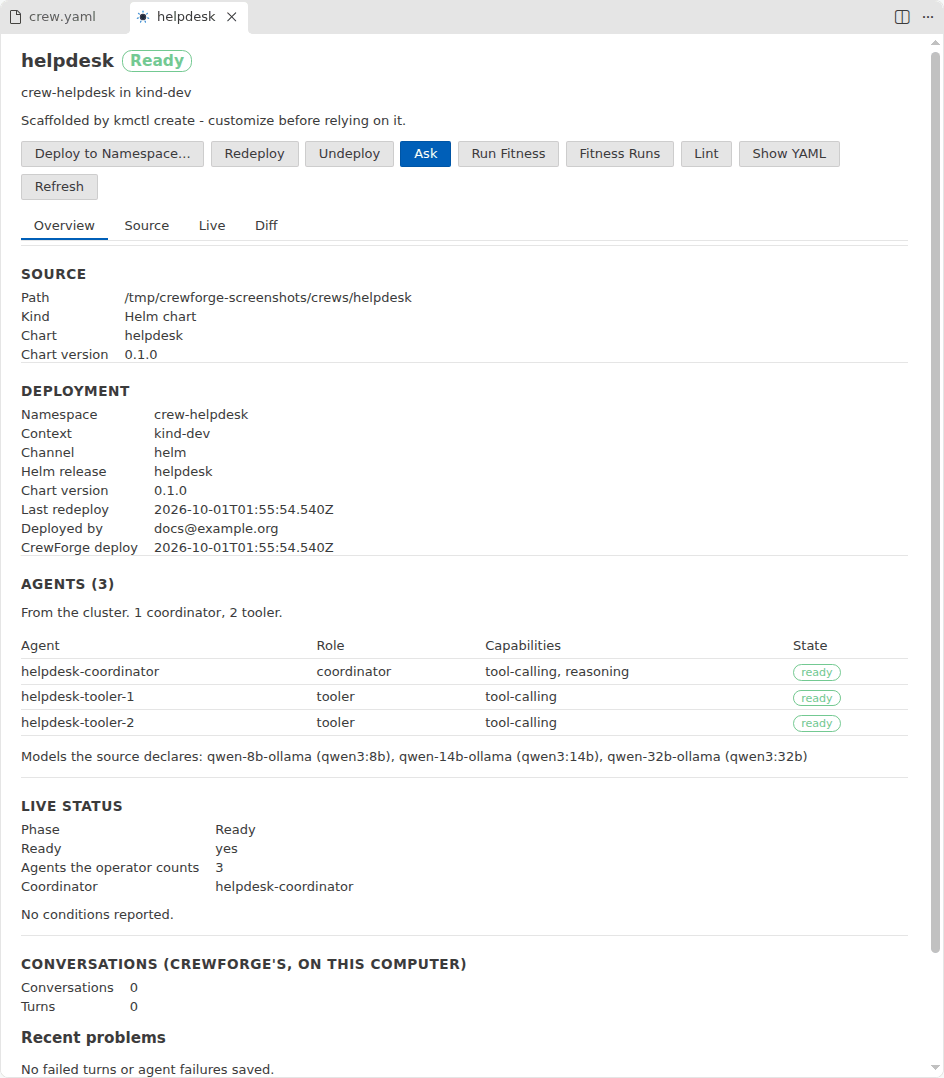
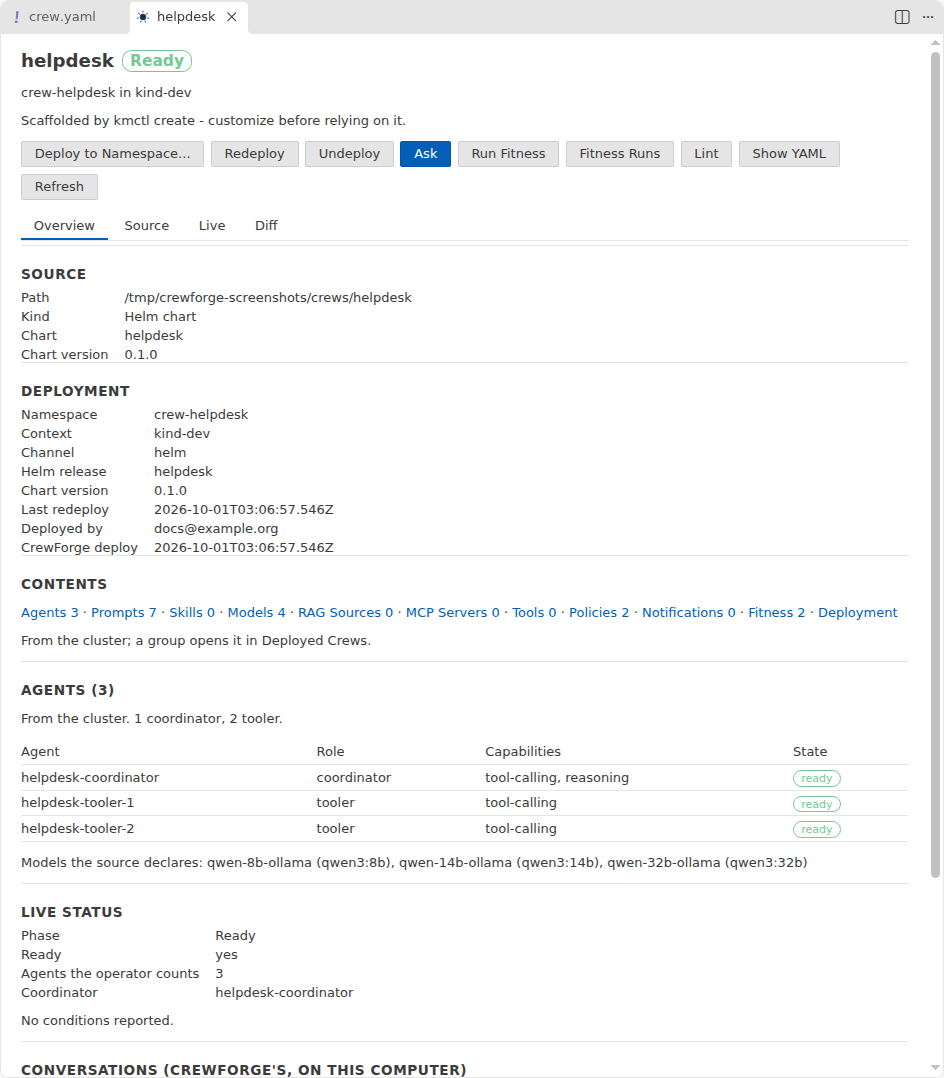
docs(crewforge): every part of a crew, Add <Kind>, and Remove from Source
The CrewForge pages describe the groups both trees show and the rule that
puts an object in each, shared objects, tool details from the gateway's
catalog, Add <Kind>... and Remove from Source... in Crew Sources, and the
Contents line of the crew dashboard. The views and crew overview
screenshots are regenerated.

diff --git a/content/en/docs/ecosystem/crewforge/views-and-dashboards.md b/content/en/docs/ecosystem/crewforge/views-and-dashboards.md
@@ -11,7 +11,8 @@ This page is the reference. For a guided tour, see
 
 CrewForge applies only Kubemoot custom resources and Helm releases of them. It never
 deletes a namespace or any other kind of object; the operator owns cleanup through
-finalizers and owner references. Anything that deletes files, such as **Delete Source...**,
+finalizers and owner references. **Add <Kind>...** and **Remove from Source...** change
+only files of a source. Anything that deletes files, such as **Delete Source...**,
 moves them to your trash. Actions that only read are marked "nothing" in the
 [action reference](#action-reference) below.
 
@@ -19,7 +20,7 @@ moves them to your trash. Actions that only read are marked "nothing" in the
 
 Click the Kubemoot mark in the activity bar. Two views share the side bar.
 
-![The Kubemoot view in VS Code's side bar. Deployed Crews lists the helpdesk crew expanded to its agents and prompt modules; Crew Sources lists the helpdesk chart, deployed in crew-helpdesk and in sync, expanded to what it declares.](../views.png)
+![The Kubemoot view in VS Code's side bar. Deployed Crews lists the helpdesk crew expanded to its groups, with Models open: three Models and the shared ollama ModelProvider. Crew Sources lists the helpdesk chart, deployed in crew-helpdesk and in sync, expanded to the same groups.](../views.png)
 
 ### Deployed Crews
 
@@ -30,17 +31,42 @@ A crew's line shows its phase, agent count, chart version, and whether its sourc
 in the workspace (*source open* or *no local source*). Hover for its namespace, labels,
 creation time, archetype, and status conditions.
 
-Expand a crew to see what it is made of, read from the cluster:
+Expand a crew to see every part of it, read from the cluster, in this order. A group with
+nothing in it says *none*; hover a group for the rule that puts an object in it.
 
-- **Agents**: each with its discussion role, the capabilities it asks the scheduler for
-  (never a model name), and whether it is ready.
-- **PromptModules**: in composition order, each marked ADL or prose, with the agents that
-  use it. A module an agent names that the cluster lacks shows as missing.
-- **Skills**, in order.
-- **MCP Servers** its agents or skills name, and the **Tools** its agents may call.
+- **Agents**: the Agents labeled `kubemoot.ai/crew` with the crew, each with its
+  discussion role, the capabilities it asks the scheduler for (never a model name), and
+  whether it is ready.
+- **Prompts**: the PromptModules the agents name in `promptRefs`, in composition order,
+  each marked ADL or prose, with the agents that use it. A module an agent names that the
+  cluster lacks shows as missing.
+- **Skills** labeled with the crew, in order.
+- **Models**: every Model in the crew's namespace, since the scheduler may bind the agents
+  to any of them by capability label, then the ModelProviders they run on (looked up in
+  the crew's namespace, then `kubemoot`). Hover a Model for its model name, capability
+  tier (its `latencyClass`), capability labels, and context length.
+- **RAG Sources** the agents or skills name, or were matched to by keyword, and the
+  crew's own, then the **EmbeddingModels** they embed with. Hover one for what it
+  indexes, its chunking, its embedding model, and when it was last indexed.
+- **MCP Servers** the agents or skills name, installed with the crew, or registered with
+  its gateway, then the namespace's **MCPGateway** (the agents use the first one), and the
+  **MCPQualityPolicy**, **MCPCatalog**, and **MCPServerReport** objects they use.
+- **Tools** the agents enable. Each says which MCP server offers it and which agents
+  enable it. The description and input schema come from the gateway's tool catalog, read
+  through the Kubernetes service proxy; when it cannot be read, the item says so. Click a
+  tool for a read-only page with all of it.
+- **Policies**: the CrewSchedulingPolicy whose `crewRef` names the crew, and the
+  MootArchetype it runs. Hover a policy for what it governs.
+- **Notifications**: the NotificationSinks in the namespace that fire for the crew's
+  agents. The tooltip shows only the webhook's host.
+- **Fitness**: the CrewFitnessSuites and CrewFitness runs whose `crewRef` names the crew.
 - **Deployment**: the channel (Helm, Flux, or a kubectl bundle), the chart and version,
-  the release, the Flux object, and what a CrewForge deploy recorded: source, revision,
-  who, and when.
+  the release, the Flux object, what a CrewForge deploy recorded (source, revision, who,
+  and when), and the operator's KubemootConfig.
+
+An object that is not the crew's own (a ModelProvider in `kubemoot`, another crew's
+Model, the cluster's archetype) is marked **shared**, and its tooltip says who owns it.
+CrewForge only shows it.
 
 Click any item for its live YAML in a read-only editor. The title bar has **Create Crew**,
 **Open Crews Overview**, **Refresh Deployed Crews**, **Continue a Conversation**, and
@@ -61,10 +87,28 @@ folders of plain manifests that include one (a bundle). Each source reads as its
 name, with where it stands on its line: *deployed in crew-helpdesk, changed*, *deployed in
 crew-helpdesk, in sync*, or *not deployed*.
 
-Each source expands to what it declares: the Crew, **Agents**, **PromptModules**,
-**Skills**, **MCP Servers**, and **Fitness Scenarios**; click one to open its file at
-that object. After that come its deployments, one per namespace. A source can be deployed
-to many namespaces.
+Each source expands to what it declares, in the same groups as Deployed Crews: the Crew,
+**Agents**, **Prompts**, **Skills**, **Models**, **RAG Sources**, **MCP Servers**,
+**Tools**, **Policies**, **Notifications**, and **Fitness Scenarios**. Click an object to
+open its file at that object. Something the source names but does not declare, such as
+the ModelProvider its Models run on, shows as *shared, installed elsewhere*, or as *not in
+this source* when it should be there. After the groups come its deployments, one per
+namespace. A source can be deployed to many namespaces.
+
+To define more of the crew, use **Add <Kind>...** on a group (the **+** on its line):
+**Add Agent...** (name, role, capabilities, PromptModules, tools), **Add PromptModule...**
+(ADL or prose, and its order), **Add Skill...**, **Add Model...**, **Add RAGSource...**,
+**Add EmbeddingModel...**, **Add MCPServer...**, **Add CrewSchedulingPolicy...**, and
+**Add NotificationSink...**. CrewForge writes the new object in the shape of the source's
+own: in a chart, a file under `templates/` labeled with the crew (with the chart's
+common-labels helper when it has one); in a bundle, a YAML file beside the Crew in its
+namespace. The file opens, the object appears in the tree, and Lint checks it.
+
+**Remove from Source...** on a declared object moves its file to the trash, or takes its
+document out of a file that holds others, after a confirmation that names anything that
+still refers to it. An object a template loop makes, such as a Model from `values.yaml`,
+is refused: change the values instead. Nothing in the cluster changes until the next
+deploy; the operator cleans up after a removed object.
 
 Under each deployment:
 
@@ -110,6 +154,8 @@ not apply is disabled, with the reason in its tooltip. Four tabs sit under the b
 - the **source**: path, chart name, chart version, and app version;
 - the **deployment**: namespace and context, channel, Helm release, deployed chart and app
   version, first deploy and last redeploy, and what a CrewForge deploy recorded;
+- the **contents**: how many objects each group holds, from the cluster when the crew is
+  deployed, else from the source. Click a group to select it in the tree;
 - the **agents**, counted by role, with the capabilities each declares and whether each is
   ready, followed by the Models the source declares;
 - the Crew's **phase**, message, and status conditions;
@@ -119,7 +165,7 @@ not apply is disabled, with the reason in its tooltip. Four tabs sit under the b
 
 A banner says when the source's chart version differs from the deployed one.
 
-![The crew dashboard's Overview tab for the helpdesk crew: source, deployment, agents, and live status sections.](../crew-overview.png)
+![The crew dashboard's Overview tab for the helpdesk crew: source, deployment, a Contents line counting each group, agents, and live status sections.](../crew-overview.png)
 
 **Source** lists the objects the local source renders, grouped by kind. Click one to open
 its file at the object.
@@ -145,8 +191,10 @@ and the selected one in detail, with **Pause**, **Resume**, and **Stop**. See
 
 ### Where the numbers come from
 
-The Kubernetes API supplies Crews, Agents, fitness runs and their iterations, the
-operator Deployment, the server version, and the CRD schema. `helm status` supplies
+The Kubernetes API supplies Crews, Agents, and every other Kubemoot object of a crew,
+fitness runs and their iterations, the operator Deployment, the server version, and the
+CRD schema. The MCP gateway's tool list, read through the Kubernetes service proxy,
+supplies each tool's description and input schema. `helm status` supplies
 release times. CrewForge's saved conversations supply the conversation counts. The
 optional Kubemoot dashboard, read through the Kubernetes service proxy, supplies
 discussion threads, agent failures, and a suite's scores and iterations. Without it,
@@ -237,6 +285,9 @@ menu button.
 | **Compare Source with Live (normalized diff)** | See how a deployed object differs from its source | Nothing. |
 | **Show Source YAML** / **Show Live YAML** / **Show Live YAML (raw)** | Look at one side alone | Nothing. |
 | **Lint (helm lint and schema check)** | Before deploying, or any time | Nothing. Findings go to the Problems panel. |
+| **Add <Kind>...** | Define another part of a crew: an Agent, a PromptModule, a Model, a RAG source, and so on | A new file in the source, opened in the editor and linted. Nothing on the cluster until you deploy. |
+| **Remove from Source...** | Take a part out of a crew's source | Its file moves to the trash, or its document leaves a file that holds others, after a confirmation. Nothing on the cluster until you deploy. |
+| **Show Tool Details** | See where a tool comes from and what it takes | Nothing. A read-only page. |
 | **Ask** | Try a deployed crew | Nothing on the cluster. The chat is a discussion turn. |
 | **Run Fitness** | Measure a deployed crew | Creates a fitness run (a Kubemoot object) in the crew's namespace. |
 | **Run This Scenario Only** | Try one scenario after changing a prompt | One fitness run of one scenario, one iteration, marked so its dashboard offers Stop. |

diff --git a/content/en/docs/ecosystem/crewforge/develop-a-crew.md b/content/en/docs/ecosystem/crewforge/develop-a-crew.md
@@ -59,14 +59,22 @@ start a run.
 ## 2. Understand what it declares
 
 Expand `helpdesk` in **Crew Sources**. CrewForge renders the chart and lists what it
-declares:
+declares, group by group:
 
 - the **Crew**,
 - its **Agents**, each with its role and capabilities,
-- the **PromptModules** the agents compose, in order, marked ADL or prose,
-- **Skills** and **MCP Servers**, when it has any,
+- the **Prompts** (PromptModules) the agents compose, in order, marked ADL or prose,
+- **Skills**,
+- the **Models** the scheduler can bind the agents to, and the ModelProvider they run on,
+  marked *shared, installed elsewhere* because the cluster provides it,
+- **RAG Sources**, **MCP Servers**, and the **Tools** the agents enable,
+- **Policies**: the scheduling policy and the archetype it runs,
+- **Notifications**,
 - **Fitness Scenarios**, from the `fitness/` folder,
 - then its deployments. A new crew shows **not deployed**.
+
+A group with nothing in it says *none*. Hover a Model for its model name, capability tier,
+and context length, or a policy for what it governs.
 
 Click any of them to open its file at that object. The view follows the file system:
 adding, renaming, or deleting a file updates it without a refresh. When the chart does
@@ -85,6 +93,12 @@ Open `templates/crew.yaml` and give the crew a real description. Then open
 `templates/agents.yaml` and replace the placeholder description of each specialist with
 its responsibility, and rewrite its system PromptModule in `templates/promptmodules.yaml`
 to match.
+
+To add a part, use **Add <Kind>...** on its group in Crew Sources, for example **Add
+Agent...** on Agents. CrewForge asks for the agent's name, role, capabilities,
+PromptModules, and tools, writes `templates/agent-<name>.yaml` in the shape of the
+chart's other templates, opens it, shows it in the tree, and lints the chart.
+**Remove from Source...** on an object takes it out again, after a confirmation.
 
 Whenever a file of the crew is open, the status bar names the crew and where it stands:
 
